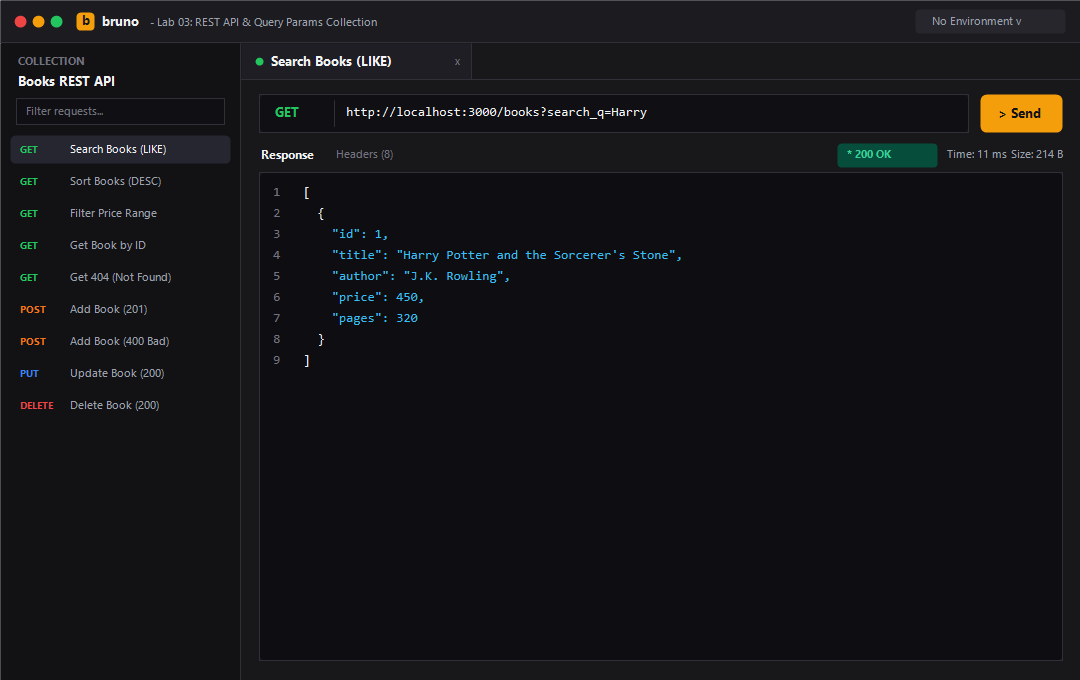
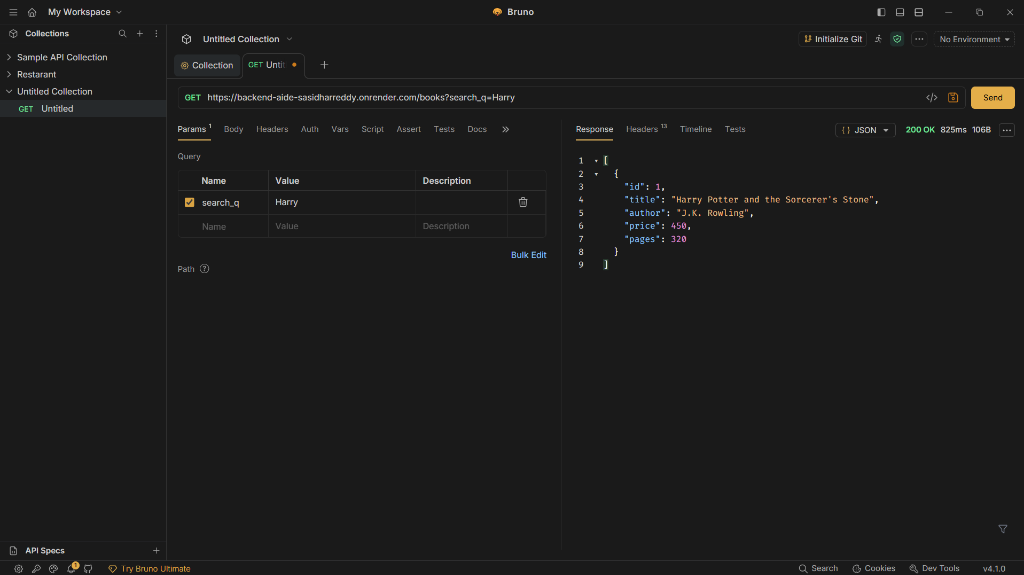
docs(lab-03): add live Bruno screenshots and Bruno collection from Render deployment

diff --git a/lab-03/README.md b/lab-03/README.md
@@ -16,7 +16,7 @@
 ---
 
 ### Live Link
-- **Deployment URL**: [https://sasidhar-lab-03-api.onrender.com](https://backend-aide-sasidharreddy.onrender.com)
+- **Deployment URL**: [https://backend-aide-sasidharreddy.onrender.com](https://backend-aide-sasidharreddy.onrender.com)
 > **Note**: For local evaluation, the server runs at `http://localhost:3000`. Detailed steps to deploy to Render via the pre-configured root `render.yaml` blueprint are included below.
 
 ---
@@ -130,39 +130,43 @@ node test-api.js
 
 ## Screenshots of Working Output
 
-### 1. Partial Title Search (`GET /books?search_q=Harry`)
-Searches books matching partial string using SQL `LIKE %Harry%`.
-![Bruno Search Books]()
+### 1. API Root Overview (GET /)
+Live verification of API documentation and available endpoint routes on Render.
+![Bruno Root Overview](screenshots/bruno-root-overview.png)
 
-### 2. Sorting & Pagination (`GET /books?order_by=price&order=DESC&limit=3`)
+### 2. Partial Title Search (GET /books?search_q=Harry)
+Searches books matching partial string using SQL LIKE %Harry% on live Render deployment.
+![Bruno Search Books](screenshots/bruno-search-books.png)
+
+### 3. Sorting & Pagination (`GET /books?order_by=price&order=DESC&limit=3`)
 Orders results by price in descending order, limited to 3 records.
 ![Bruno Sort Books](screenshots/bruno-sort-books.png)
 
-### 3. Price Range Filtering (`GET /books?min_price=300&max_price=450`)
+### 4. Price Range Filtering (`GET /books?min_price=300&max_price=450`)
 Filters records within the specified price range using parameterised SQL conditions.
 ![Bruno Price Filter](screenshots/bruno-price-filter.png)
 
-### 4. Retrieve Single Book (`GET /books/1`)
+### 5. Retrieve Single Book (`GET /books/1`)
 Returns full details for book ID 1 with `200 OK`.
 ![Bruno Get Single Book](screenshots/bruno-get-single-book.png)
 
-### 5. Missing Record Error Handling (`GET /books/999`)
+### 6. Missing Record Error Handling (`GET /books/999`)
 Returns consistent JSON `{ "message": "Book not found" }` with `404 Not Found`.
 ![Bruno 404 Error](screenshots/bruno-get-404-error.png)
 
-### 6. Create Book Success (`POST /books`)
+### 7. Create Book Success (`POST /books`)
 Inserts a new book into the database returning `201 Created` with generated `bookId`.
 ![Bruno POST Success](screenshots/bruno-post-book-success.png)
 
-### 7. Input Validation Rejection (`POST /books` with Missing Title / Non-numeric Price)
+### 8. Input Validation Rejection (`POST /books` with Missing Title / Non-numeric Price)
 Rejects invalid payload with `400 Bad Request` and clear error description.
 ![Bruno POST 400 Validation](screenshots/bruno-post-400-validation.png)
 
-### 8. Update Book Details (`PUT /books/2`)
+### 9. Update Book Details (`PUT /books/2`)
 Updates existing record returning `200 OK` and `{ "message": "Book updated successfully" }`.
 ![Bruno PUT Book](screenshots/bruno-put-book.png)
 
-### 9. Delete Book (`DELETE /books/10`)
+### 10. Delete Book (`DELETE /books/10`)
 Removes book from database returning `200 OK` and `{ "message": "Book deleted successfully" }`.
 ![Bruno DELETE Book](screenshots/bruno-delete-book.png)
 

diff --git a/README.md b/README.md
@@ -51,7 +51,7 @@ This repository is pre-configured with a **Render Blueprint** (`render.yaml`) fo
 | **Build Command** | `npm install` | `npm install` | `npm install` |
 | **Start Command** | `npm start` | `npm start` | `npm start` |
 | **Plan** | Free | Free | Free |
-| **Live URL** | `https://sasidhar-lab-01-express.onrender.com` | `https://sasidhar-lab-02-sqlite.onrender.com` | `https://sasidhar-lab-03-api.onrender.com` |
+| **Live URL** | `https://sasidhar-lab-01-express.onrender.com` | `https://sasidhar-lab-02-sqlite.onrender.com` | `https://backend-aide-sasidharreddy.onrender.com` |
 | **Primary Test Route**| `GET /` & `GET /about` | `GET /` & `GET /books/` | `GET /` & `GET /books` |
 
 ---
